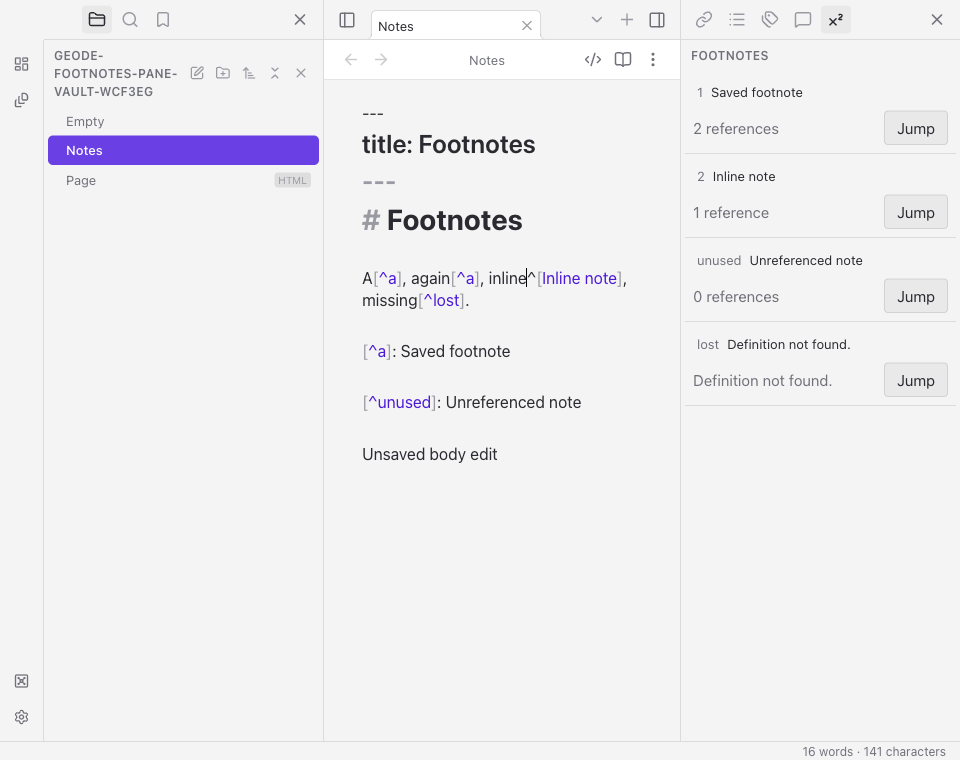
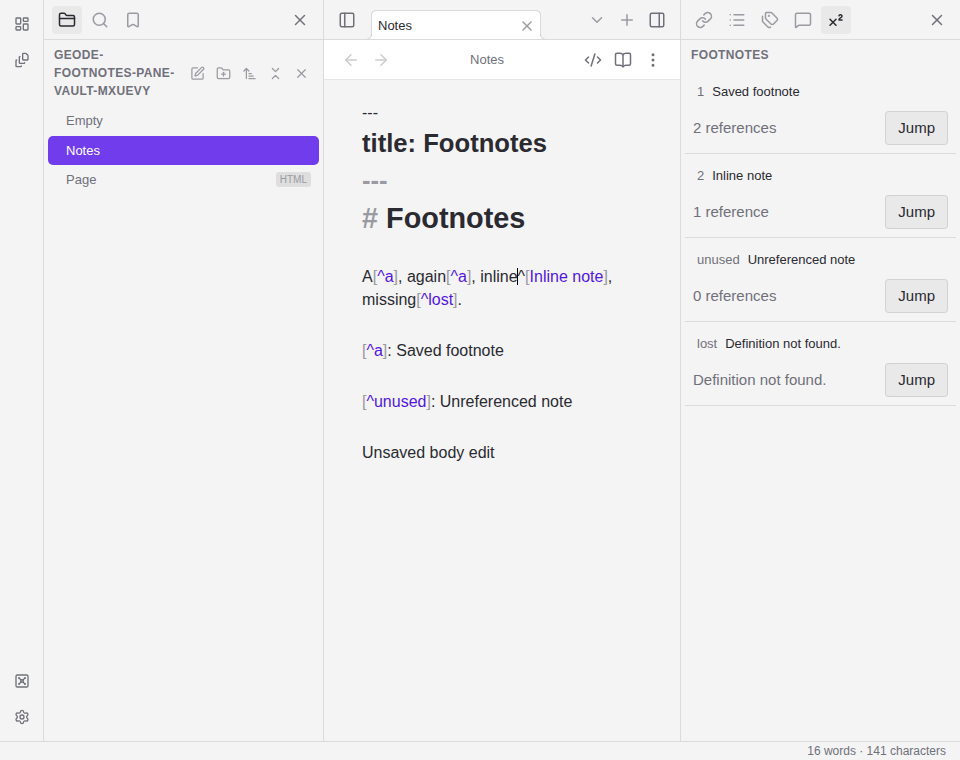
docs(footnotes): publish fresh verified pane captures

diff --git a/docs/design/footnotes-delivery.md b/docs/design/footnotes-delivery.md
@@ -28,3 +28,25 @@ and fresh synthetic desktop/compact captures are required for this delivery.
 Limits remain explicit: first 8,192 UTF-16 source units, at most 200 rows,
 partial-definition editing refusal, and the shared scanner grammar. This is a
 bounded feature package, not complete Footnotes or Obsidian parity.
+
+## Final verification
+
+The exact candidate `31e5deba84fcc0f92adfd6270d5fd1ad7b72f106` passed full
+worker job `01M4ZZPJXYTSSYA61T51K1XSMJ`: install/types/build;324unit files,
+4758 ordinary passes, one documented expected failure and three existing skips;
+full394Electron accounted379ordinary passes and15existing conditional/fixture
+skips, with no failed attempts/retries. Fresh synthetic desktop/compact captures
+were inspected and delivered in the repository and authorized vault QA report.
+Artifact manifest SHA256:
[1 lines of base64/hex data omitted]
+
+The prior exactcc1653 full run failed twice at NoteComposer's immediate rewritten
+Linker.md assertion. Production merge awaits destination first, then referencer
+writes; the destination alone was an insufficient test completion barrier on
+Linux, where source-trash completion is unsupported. A controlled real
+Vault.modify gate now proves that intermediate state, releases in finally, then
+awaits the original exact rewritten-byte assertion. The analogous prepend
+assertion also polls its original contains oracle. No production merge behavior,
+assertion content, timeout, retry or skip changed. The failed full run remains
+archived; the corrected full run passed without retries. These screenshot/docs
+updates leave source and tests identical to that exact passing candidate.

diff --git a/docs/spec/footnotes-pane.md b/docs/spec/footnotes-pane.md
@@ -27,11 +27,13 @@ Frontmatter and code do not contribute footnotes. The chosen editing interaction
 is in the note's Source editor; this feature does not add an independent inline
 sidebar text editor.
 
-Screenshots from the synthetic Footnotes fixture, captured locally on macOS at
-commit bf3a8f0 on 2026-10-14. Both show the Source editor after a normal footnote
-edit, including a repeated reference, inline footnote, unreferenced definition,
-and missing-definition state. The compact capture retains legible controls and
-wraps note text within the editor.
+Screenshots from the synthetic Footnotes fixture, captured on Linux with
+Electron42.10.0 at tested source commit `31e5deb` on2026-10-15. Both show the
+Source editor after a normal footnote edit, including repeated references, an
+inline footnote, an unreferenced definition and a missing-definition state. The
+1440×900 desktop and960×760 compact captures were visually inspected; controls
+remain legible and source text wraps within the editor. They come from the fresh
+passing full worker gate, not the earlier historical captures.
 
 ![Footnotes pane at 1440 × 900](../screenshots/footnotes-pane-desktop.png)
 ![Footnotes pane at 960 × 760](../screenshots/footnotes-pane-compact.png)
